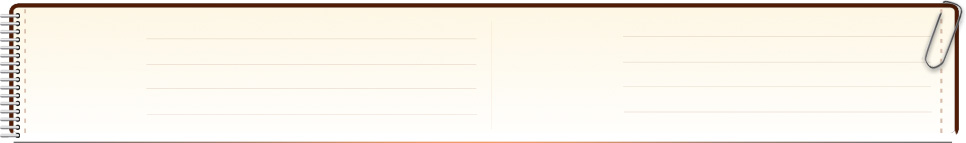
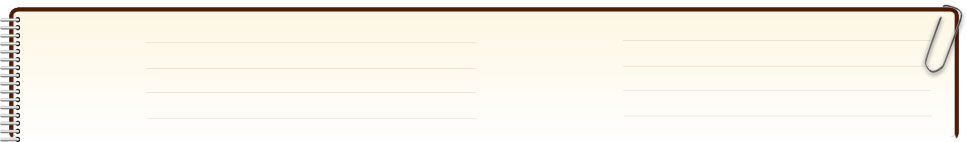
Изменен порядок вкладок и фон

Changed region(s): [[0.0, 0.0, 1.0, 1.0]]

diff --git a/insurance/static/css/style.css b/insurance/static/css/style.css
@@ -328,10 +328,10 @@ a:hover        {text-decoration:none}
 .tabs_footer	{padding:0 0 0 25px;}
 	.tabs_footer_link	{overflow:hidden; padding:0 30px 0 10px; float:left;}
 		.tabs_footer_link li	{float:left; list-style:none;}
-			.tabs_footer_link a	{display:block; width:137px; height:30px; text-align:center; text-decoration:none; color:#fff; font-size:18px; padding:8px 0 0 0; background:url(/static/images/tabs_link3.png) 0 0 no-repeat; margin-right:-15px; position:relative;}
+			.tabs_footer_link a	{display:block; width:137px; height:30px; text-align:center; text-decoration:none; color:#fff; font-size:12px; line-height: 30px; padding:8px 0 0 0; background:url(/static/images/tabs_link3.png) 0 0 no-repeat; margin-right:-15px; position:relative;}
 			.tabs_footer_link a:hover	{background:url(/static/images/tabs_link3_active.png) 0 0 no-repeat; z-index:10;}
 			.tabs_footer_link a.selected	{background:url(/static/images/tabs_link3_active.png) 0 0 no-repeat; z-index:10;}
-	.tabs_footer_cont	{background:url(/static/images/tabs_footer_bg.jpg) 0 -5px no-repeat; width:966px; margin:0 -11px 0 -10px; height:143px; clear:both;}
+	.tabs_footer_cont	{background:url(/static/images/tabs_footer_bg.jpg) 0 -7px no-repeat; width:966px; margin:0 -11px 0 -10px; height:143px; clear:both;}
 		.tabs_footer_cont_left	{float:left; padding:10px 0 0 39px;}
 			.tabs_footer_cont_img	{background:url(/static/images/ramka.jpg) 0 0 no-repeat; width:109px; height:112px; float:left; text-align:center; padding:4px 0 0 0;}
 				.tabs_footer_cont_img img	{max-width:109px; max-height:112px;}

diff --git a/insurance/templates/includes/news_panel.html b/insurance/templates/includes/news_panel.html
@@ -1,9 +1,10 @@
 <div class="tabs_footer">
   <ul class="tabs_footer_link">
-    <li><a class="" href="#tab_01">Прочее</a></li>
-    <li><a class=""  href="#tab_02">Новости</a></li>
-    <li><a class="" href="#tab_03">Анонсы</a></li>
+    <li><a class="" href="#tab_01">Новости</a></li>
+    <li><a class=""  href="#tab_02">Анонсы</a></li>
+    <li><a class="" href="#tab_03">Прочее</a></li>
   </ul>
+
   <div class="tabs_footer_cont" id="tab_01">
     {% for item in other %}
     <div class='tabs_footer_cont_left'>
@@ -12,6 +13,7 @@
     </div>
     {% endfor %}
   </div>
+
   <div class="tabs_footer_cont" id="tab_02">
     {% for item in news %}
     <div class='tabs_footer_cont_left'>
@@ -20,6 +22,7 @@
     </div>
     {% endfor %}
   </div>
+
   <div class="tabs_footer_cont" id="tab_03">
     {% for item in announce %}
     <div class='tabs_footer_cont_left'>
@@ -28,6 +31,8 @@
     </div>
     {% endfor %}
   </div>
+
+
   <script>
     $(function () {
     var tabContainers = $('div.tabs_footer > .tabs_footer_cont'); // получаем массив контейнеров
